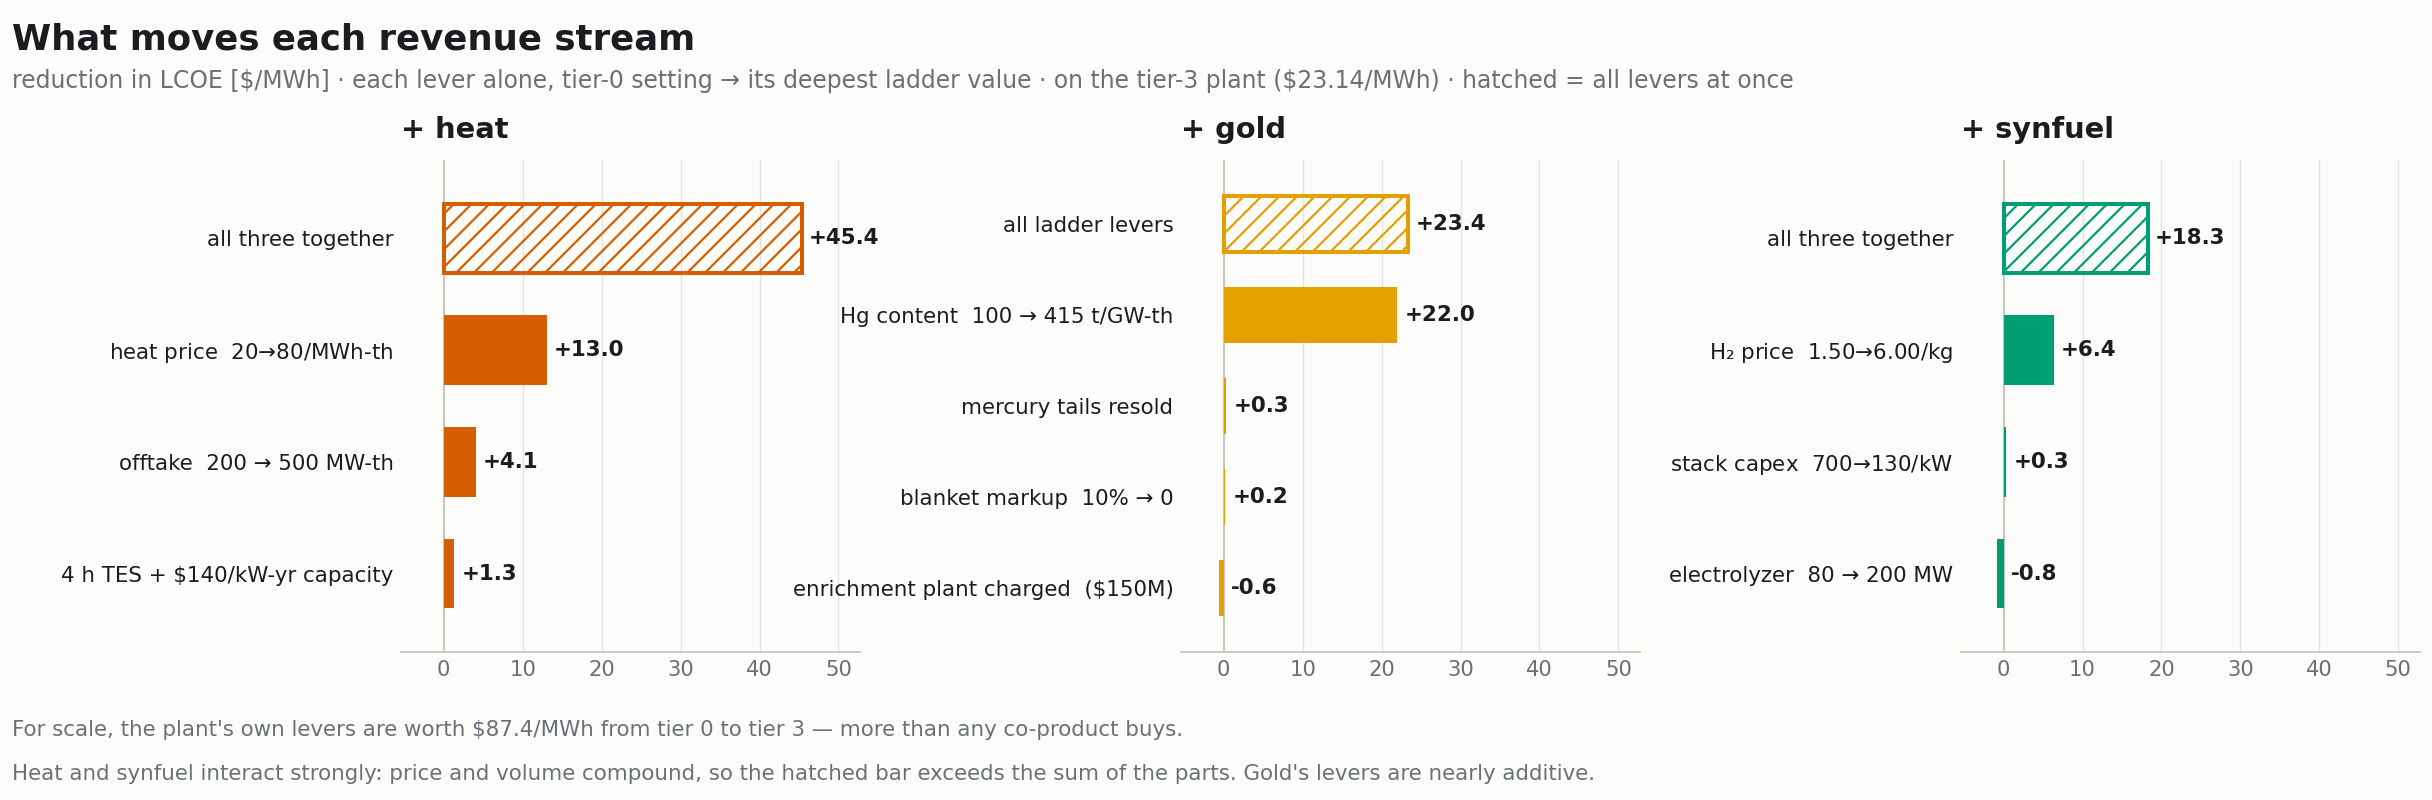
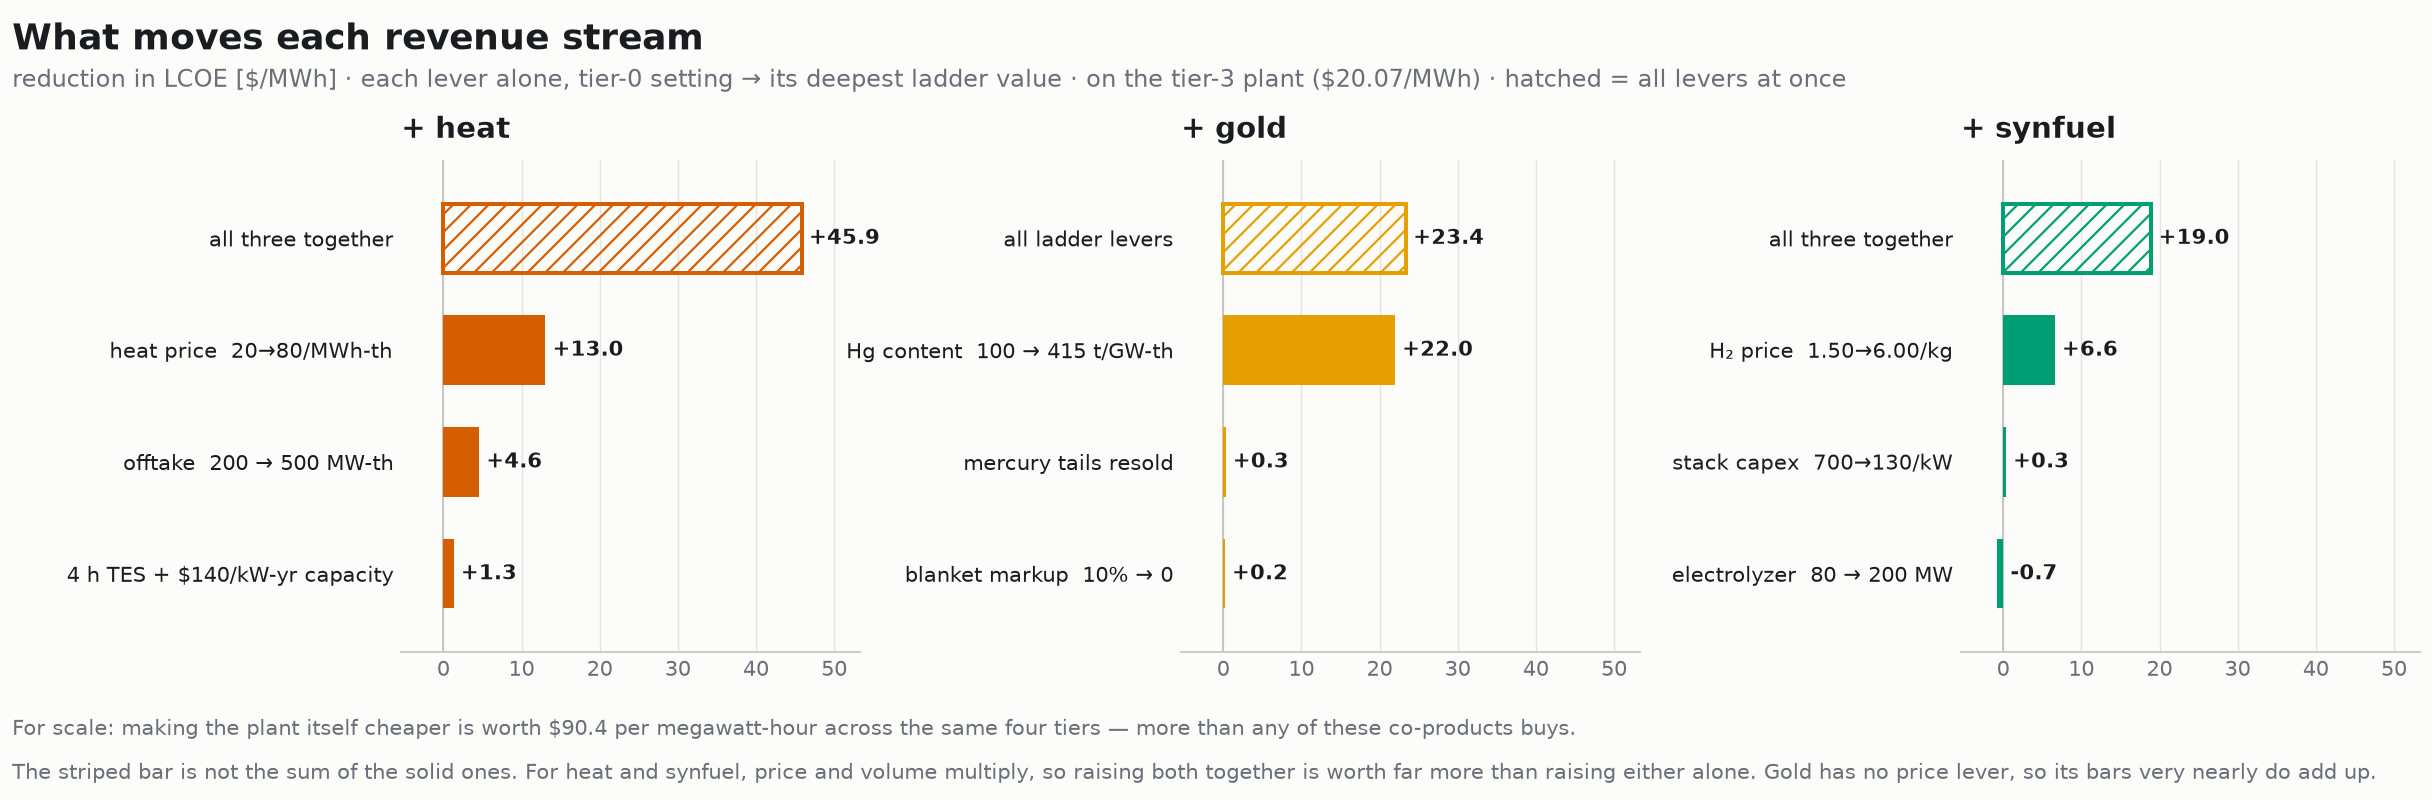
Match the published article: indirects held at 20% nominal, tier-3 lights-out O&M, regenerated results and figures
Per the 30 September publication check. See the PR description for the itemized changes.

diff --git a/revenue_tier_ladder.py b/revenue_tier_ladder.py
@@ -10,7 +10,7 @@ Tier vocabulary, cumulative left to right:
   0 design basis / 1 applicable record / 2 extrapolation with a known mechanism /
   3 speculation, no mechanism.
 
-Three modelling choices worth stating, each argued out in the dispatch:
+Three modeling choices worth stating, each argued out in the dispatch:
 
   gold      Production is read off Marathon's own neutronics scan (Alchemy Fig. 5),
             Au(t) = A(1 - exp(-t/lambda)) with lambda = 74.2 mm, A = 3.13 t/yr at
@@ -36,7 +36,7 @@ Three modelling choices worth stating, each argued out in the dispatch:
             measures the denominator.  Grid volatility is held fixed -- see the
             note on the synfuel model below.
 
-            Matching does NOT equalise heat and hydrogen, and the residual is the
+            Matching does NOT equalize heat and hydrogen, and the residual is the
             real result:
             at tier 3 heat is worth $200/MWh_e (80/MWh_th over eta_gen) against
             H2's $71.15 (4.50 - 0.80 /kg over 52 kWh/kg), so heat throws off ~2.7x
@@ -79,7 +79,10 @@ CRF = [crf(w, n) for w, n in zip(WACC, LIFE)]
 # Mature corridor, compact tokamak at 1 GWe, rescaled onto this dispatch's own
 # published 1 GWe D-T baseline.  PROVISIONAL: wants a direct 1costingFE run with
 # the lever stack applied to this machine rather than the CT ratios.
-CT = [114.6, 88.5, 40.3, 24.0]
+# CT is the mature corridor's compact-tokamak ladder at 1 GWe (Magnetic_DT_Corridor,
+# corridor_tiers.json "tok_1g"): design basis, records, extrapolations, speculation,
+# the last with lights-out O&M (fixed O&M x 0.0855) as every tier-3 in the set now carries.
+CT = [114.5790, 90.3763, 41.4942, 20.8100]
 PLANT = [110.5 * c / CT[0] for c in CT]
 
 
@@ -150,7 +153,7 @@ def heat(t, price_th, tes=False, cap_kw_yr=0.0, h=HFIRM):
 # divert the cheapest hours, worth ~$10M/yr at tier 2 -- cannot reach the number;
 # it lives in NPV and captured price, which is how h2_led_plant_tool.html reports
 # it.  Laddering volatility here would pick up only its small adverse effect on
-# electrolyzer utilisation and miss the large favourable one.
+# electrolyzer utilization and miss the large favorable one.
 ELY_CAPEX, ELY_OM, LOG = 700.0, 0.03, 0.80
 ELY_MW = ETA * HFIRM                               # 80 MW, matched to heat
 GRID_MEAN, GRID_VOL = 40.0, 1.0
@@ -212,7 +215,7 @@ HEAT = [heat(0, 20.0, h=HEAT_MWTH[0]),
         heat(3, 80.0, tes=True, cap_kw_yr=140.0, h=HEAT_MWTH[3])]
 # The cooldown is set by a regulatory threshold, not by taste.  Marathon give
 # three: 6.8 yr to reach NRC Class-A low-level waste, 13.7 yr to need no
-# radioactive labelling at all (Class 7, 2700 pCi/g for 197Au), and 17.7 yr to
+# radioactive labeling at all (Class 7, 2700 pCi/g for 197Au), and 17.7 yr to
 # fall below banana-equivalent activity.  The dispatch's non-fungibility argument
 # rests on the PLACARD, which clears at 13.7 yr, so the published 14 yr IS that
 # threshold and it is held at every rung.
@@ -234,9 +237,10 @@ GOLD = [gold(0, KG1, 100, 14.0),
         gold(3, KG2, 415, 14.0, feed_usd_per_kg_enr=HG_TAILS_RESOLD, blanket=0.0)]
 
 # Synfuel: the sale price carries tiers 0-1 and the technology carries 2-3.
-#   price   grey $1.50 -> $3.00, the maximum statutory rate of the US 45V clean
-#           hydrogen production credit, held through tier 2 -> $4.50 at tier 3,
-#           the bottom of today's UNSUBSIDISED green H2 production cost range.
+#   price   grey $1.50 -> $3.00, a scenario price pegged to the maximum statutory
+#           rate of the US 45V clean-hydrogen production credit (a subsidy, not a
+#           selling-price record) -> $3.75 -> $6.00, the mid-range of today's
+#           UNSUBSIDISED green H2 production cost ($4.50-7.00).
 #   capex   IRENA, "Green Hydrogen Cost Reduction" (2020) puts installed cost at
 #           $650-1,000/kW in 2020 (avg ~$770; the tool's $700 sits inside it) and
 #           at $130-307/kW by 2050, the range spanning 1-5 TW of deployment.
@@ -292,7 +296,7 @@ NOTES = [
     f"gold {DOT} no blanket complexity markup\n"
     f"H{SUB2} {DOT} {D_}3.75/kg {DOT} 160 MW @ {D_}307/kW",
 
-    f"plant {DOT} 3% WACC {DOT} 0.98 av {DOT} 8% indirect\n"
+    f"plant {DOT} 3% WACC {DOT} 0.98 av {DOT} 2.5 yr build\n"
     f"heat {DOT} 500 MW-th @ {D_}80 + {D_}140/kW-yr\n"
     f"gold {DOT} 415 t/GW-th Hg content\n"
     f"H{SUB2} {DOT} {D_}6.00/kg {DOT} 200 MW @ {D_}130/kW",
@@ -308,9 +312,9 @@ lo = min(min(s) for _, s, _ in SERIES)
 hi = max(max(s) for _, s, _ in SERIES)
 ylo, yhi = lo - 20.0, hi * 1.13
 
-for k, (label, vals, colour) in enumerate(SERIES):
+for k, (label, vals, color) in enumerate(SERIES):
     off = (k - 1.5) * w
-    bars = ax.bar([i + off for i in x], vals, w, label=label, color=colour,
+    bars = ax.bar([i + off for i in x], vals, w, label=label, color=color,
                   edgecolor=SURFACE, linewidth=1.2, zorder=3)
     for bar, v in zip(bars, vals):
         pad = (yhi - ylo) * 0.011
@@ -339,7 +343,7 @@ ax.set_title("Alternate revenue: evidence-tier ladder, cumulative by tier",
              fontsize=16, color=INK, fontweight="600", loc="left", pad=20)
 ax.text(0, 1.018,
         f"1 GWe D-T tokamak {DOT} plant levers track the mature corridor {DOT} "
-        f"heat and synfuel diverted in step, 8% to 20% of output",
+        f"heat and synfuel diverted in step, 8% to 20% of output {DOT} indirects held at 20% nominal",
         transform=ax.transAxes, fontsize=11.5, color=MUTED, va="bottom")
 
 ax.grid(axis="y", color=RULE, lw=0.6, alpha=0.5, zorder=0)

diff --git a/revenue_tornado.py b/revenue_tornado.py
@@ -61,8 +61,6 @@ PANELS = [
          R.gold(T, R.KG1, 100, 14.0, feed_usd_per_kg_enr=TAILS), False),
         ("blanket markup  10% → 0",
          R.gold(T, R.KG1, 100, 14.0, blanket=0.0), False),
-        ("enrichment plant charged  ($150M)",
-         G0 + 150.0 * R.CRF[T] * 1e6 / (1000 * 8760 * R.AV[T]), False),
         ("all ladder levers", R.GOLD[3], True),
     ]),
     (f"+ synfuel", "#009E73", S0, [
@@ -83,7 +81,7 @@ lo = min(a - v for _, _, a, rows in PANELS for _, v, _ in rows)
 hi = max(a - v for _, _, a, rows in PANELS for _, v, _ in rows)
 span = hi - lo
 
-for ax, (title, colour, anchor, rows) in zip(axes, PANELS):
+for ax, (title, color, anchor, rows) in zip(axes, PANELS):
     ax.set_facecolor(SURFACE)
     labels = [r[0] for r in rows]
     vals = [anchor - r[1] for r in rows]
@@ -94,13 +92,13 @@ for ax, (title, colour, anchor, rows) in zip(axes, PANELS):
 
     for y, (v, ho) in enumerate(zip(vals, hollow)):
         ax.barh(y, v, 0.62, zorder=3,
-                color="none" if ho else colour,
-                edgecolor=colour, linewidth=1.8 if ho else 0.0,
+                color="none" if ho else color,
+                edgecolor=color, linewidth=1.8 if ho else 0.0,
                 hatch="///" if ho else None)
         # negative bars extend LEFT, so their label goes just right of zero --
         # putting it at the bar end would collide with the y tick labels
         ax.text(v + span * 0.02 if v >= 0 else span * 0.02, y,
-                f"{v:+.1f}", va="center", ha="left",
+                f"{v:+.2f}" if abs(v) < 0.1 else f"{v:+.1f}", va="center", ha="left",
                 fontsize=9.6, color=INK, fontweight="600", zorder=4)
 
     ax.set_yticks(range(len(labels)))
@@ -127,12 +125,14 @@ fig.text(0.005, 0.914,
          f" {DOT} hatched = all levers at once",
          fontsize=10.6, color=MUTED, ha="left", va="top")
 fig.text(0.005, 0.075,
-         f"For scale, the plant's own levers are worth {D_}{R.PLANT[0]-R.PLANT[3]:.1f}/MWh "
-         f"from tier 0 to tier 3 — more than any co-product buys.",
+         f"For scale: making the plant itself cheaper is worth {D_}"
+         f"{R.PLANT[0]-R.PLANT[3]:.1f} per megawatt-hour across the same four tiers "
+         f"— more than any of these co-products buys.",
          fontsize=9.6, color=MUTED, ha="left", va="bottom")
 fig.text(0.005, 0.020,
-         "Heat and synfuel interact strongly: price and volume compound, so the hatched "
-         "bar exceeds the sum of the parts. Gold's levers are nearly additive.",
+         "The striped bar is not the sum of the solid ones. For heat and synfuel, price and "
+         "volume multiply, so raising both together is worth far more than raising either "
+         "alone. Gold has no price lever, so its bars very nearly do add up.",
          fontsize=9.6, color=MUTED, ha="left", va="bottom")
 
 fig.subplots_adjust(left=0.165, right=0.995, top=0.800, bottom=0.185, wspace=0.70)

diff --git a/README.md b/README.md
@@ -15,13 +15,13 @@ market evidence for the co-product *and* the plant evidence beneath it together.
 | Evidence tier | electricity only | + heat | + gold | + synfuel |
 |---|---|---|---|---|
 | 0 · design basis | $110.50 | $116.23 | $89.35 | $112.80 |
-| 1 · applicable record | $85.33 | $83.94 | $63.07 | $90.08 |
-| 2 · extrapolation with a known mechanism | $38.86 | $22.47 | $15.95 | $37.03 |
-| 3 · speculation, no mechanism | $23.14 | **−$24.38** | **−$22.84** | **$5.49** |
+| 1 · applicable record | $87.16 | $86.01 | $64.89 | $92.05 |
+| 2 · extrapolation with a known mechanism | $40.02 | $23.85 | $17.10 | $38.36 |
+| 3 · speculation, no mechanism | $20.07 | **−$28.22** | **−$25.91** | **$1.69** |
 
 All figures $/MWh. At the design basis **only gold pays** — heat and synfuel both *raise*
 the cost of electricity, because the plant is too expensive for its own heat or hydrogen
-to be worth diverting. The plant's own levers carry $87.4/MWh of the descent, more than
+to be worth diverting. The plant's own levers carry $90.4/MWh of the descent, more than
 any co-product buys.
 
 ## Reproducing
@@ -42,9 +42,9 @@ python revenue_tornado.py          # figures/revenue_tornado.png
 ```
   rung                      elec only    + heat    + gold  + synfuel
   0: design basis              110.50    116.23     89.35     112.80
-  1: applicable record          85.33     83.94     63.07      90.08
-  2: extrapolation              38.86     22.47     15.95      37.03
-  3: speculation                23.14    -24.38    -22.84       5.49
+  1: applicable record          87.16     86.01     64.89      92.05
+  2: extrapolation              40.02     23.85     17.10      38.36
+  3: speculation                20.07    -28.22    -25.91       1.69
 ```
 
 The gold co-product ledger and the three interactive tools were produced against a
@@ -118,17 +118,22 @@ required to reproduce the ladder or the tornado**, which carry their own model.
   fourteen-year cooldown at 3% rather than the plant's own 7% WACC, and excludes the
   enrichment plant. Heat and synfuel get no equivalent head start. This asymmetry is
   deliberate and documented, not accidental.
-- **The enrichment plant is excluded at every rung.** Photon economics put it at
-  $40–500M, or $0.25–3.07/MWh — small, but not zero. Priced on a gas-centrifuge basis it
-  would have been $2.6B; the difference is that photochemical separation prices on optical
-  power, and the photon budget for the whole inventory is about 20 kW of average UV.
+- **Enrichment-plant capital is excluded at every rung; separation opex is charged.** The
+  article follows Marathon's own estimate that photochemical ¹⁹⁸Hg separation needs
+  negligible plant capital (under $1M) and costs about $2.4/kg of ¹⁹⁸Hg to run; that opex
+  is a line in the gold ledger, the capital is not. (An earlier draft priced a separation
+  plant at $40–500M, or $0.25–3.07/MWh; on a gas-centrifuge basis it would have been $2.6B.)
 - **The heat price row is the least sourced part of the analysis.** The $20, $40 and
   $50/MWh-th values and the $40/kW-yr capacity payment are estimates, not citations.
 - **Gold production saturates.** Output is read off Marathon's own neutronics scan rather
   than assumed: doubling the mercury buys about +51%, and their reference blanket costs
   4.15× the mercury for 1.9× the gold.
-- The plant ladder is the mature corridor's compact-tokamak result rescaled onto this
-  dispatch's 1 GWe D-T baseline, not a direct 1costingFE run of this machine.
+- The plant ladder is the mature corridor's compact-tokamak result at 1 GWe
+  ([Magnetic_DT_Corridor](https://github.com/1cFE/Magnetic_DT_Corridor), `corridor_tiers.json`,
+  `tok_1g`: 114.58 / 90.38 / 41.49 / 20.81 $/MWh) rescaled onto this dispatch's $110.5
+  baseline, `PLANT = 110.5 × CT / CT[0]`, not a direct 1costingFE run of this machine. Its
+  tier 3 carries lights-out O&M (fixed O&M × 0.0855) and the 20%-nominal indirect-cost
+  convention, as the mature and pulsed ladders do.
 
 ## Contact
 
